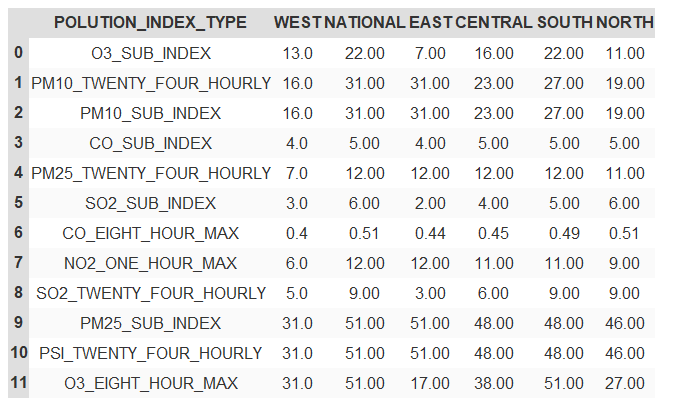
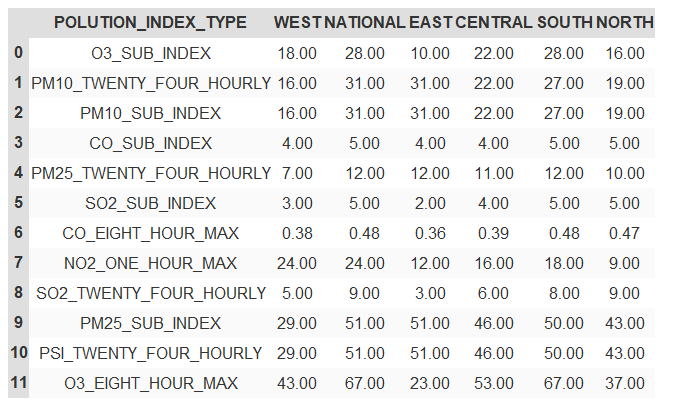
Change update time

diff --git a/haze_status.html b/haze_status.html
@@ -42,122 +42,122 @@ background-color: white;
     <tr>
       <th>0</th>
       <td>O3_SUB_INDEX</td>
-      <td>13.0</td>
+      <td>18.00</td>
+      <td>28.00</td>
+      <td>10.00</td>
       <td>22.00</td>
-      <td>7.00</td>
+      <td>28.00</td>
       <td>16.00</td>
-      <td>22.00</td>
-      <td>11.00</td>
     </tr>
     <tr>
       <th>1</th>
       <td>PM10_TWENTY_FOUR_HOURLY</td>
-      <td>16.0</td>
+      <td>16.00</td>
       <td>31.00</td>
       <td>31.00</td>
-      <td>23.00</td>
+      <td>22.00</td>
       <td>27.00</td>
       <td>19.00</td>
     </tr>
     <tr>
       <th>2</th>
       <td>PM10_SUB_INDEX</td>
-      <td>16.0</td>
+      <td>16.00</td>
       <td>31.00</td>
       <td>31.00</td>
-      <td>23.00</td>
+      <td>22.00</td>
       <td>27.00</td>
       <td>19.00</td>
     </tr>
     <tr>
       <th>3</th>
       <td>CO_SUB_INDEX</td>
-      <td>4.0</td>
-      <td>5.00</td>
       <td>4.00</td>
       <td>5.00</td>
+      <td>4.00</td>
+      <td>4.00</td>
       <td>5.00</td>
       <td>5.00</td>
     </tr>
     <tr>
       <th>4</th>
       <td>PM25_TWENTY_FOUR_HOURLY</td>
-      <td>7.0</td>
-      <td>12.00</td>
-      <td>12.00</td>
+      <td>7.00</td>
       <td>12.00</td>
       <td>12.00</td>
       <td>11.00</td>
+      <td>12.00</td>
+      <td>10.00</td>
     </tr>
     <tr>
       <th>5</th>
       <td>SO2_SUB_INDEX</td>
-      <td>3.0</td>
-      <td>6.00</td>
+      <td>3.00</td>
+      <td>5.00</td>
       <td>2.00</td>
       <td>4.00</td>
       <td>5.00</td>
-      <td>6.00</td>
+      <td>5.00</td>
     </tr>
     <tr>
       <th>6</th>
       <td>CO_EIGHT_HOUR_MAX</td>
-      <td>0.4</td>
-      <td>0.51</td>
-      <td>0.44</td>
-      <td>0.45</td>
-      <td>0.49</td>
-      <td>0.51</td>
+      <td>0.38</td>
+      <td>0.48</td>
+      <td>0.36</td>
+      <td>0.39</td>
+      <td>0.48</td>
+      <td>0.47</td>
     </tr>
     <tr>
       <th>7</th>
       <td>NO2_ONE_HOUR_MAX</td>
-      <td>6.0</td>
+      <td>24.00</td>
+      <td>24.00</td>
       <td>12.00</td>
-      <td>12.00</td>
-      <td>11.00</td>
-      <td>11.00</td>
+      <td>16.00</td>
+      <td>18.00</td>
       <td>9.00</td>
     </tr>
     <tr>
       <th>8</th>
       <td>SO2_TWENTY_FOUR_HOURLY</td>
-      <td>5.0</td>
+      <td>5.00</td>
       <td>9.00</td>
       <td>3.00</td>
       <td>6.00</td>
-      <td>9.00</td>
+      <td>8.00</td>
       <td>9.00</td>
     </tr>
     <tr>
       <th>9</th>
       <td>PM25_SUB_INDEX</td>
-      <td>31.0</td>
+      <td>29.00</td>
       <td>51.00</td>
       <td>51.00</td>
-      <td>48.00</td>
-      <td>48.00</td>
       <td>46.00</td>
+      <td>50.00</td>
+      <td>43.00</td>
     </tr>
     <tr>
       <th>10</th>
       <td>PSI_TWENTY_FOUR_HOURLY</td>
-      <td>31.0</td>
+      <td>29.00</td>
       <td>51.00</td>
       <td>51.00</td>
-      <td>48.00</td>
-      <td>48.00</td>
       <td>46.00</td>
+      <td>50.00</td>
+      <td>43.00</td>
     </tr>
     <tr>
       <th>11</th>
       <td>O3_EIGHT_HOUR_MAX</td>
-      <td>31.0</td>
-      <td>51.00</td>
-      <td>17.00</td>
-      <td>38.00</td>
-      <td>51.00</td>
-      <td>27.00</td>
+      <td>43.00</td>
+      <td>67.00</td>
+      <td>23.00</td>
+      <td>53.00</td>
+      <td>67.00</td>
+      <td>37.00</td>
     </tr>
   </tbody>
 </table>

diff --git a/data.py b/data.py
@@ -106,7 +106,13 @@ while 1:
     if not os.path.isfile('E:/Computer Science Study Year 2/aSEM 2 YEAR 2/CZ3003/Code/maven-demo/dengue_status.png'):     #Change to your path
         crawling_dengue_data()
         today = pickle.load(open('today.obj','rb'))
-    else: today = pickle.load(open('today.obj','rb'))
+    else: 
+    	today_file = pickle.load(open('today.obj','rb'))
+    	today = datetime.today()
+    	if (today.year, today.month, today.day) != (today_file.year, today_file.month, today_file.day):
+    		crawling_dengue_data()
+    	else:
+    		today = today_file
     haze_response = requests.get(url).json()
     haze_status = {}
     haze_status = {'POLUTION_INDEX_TYPE': [],'WEST': [], 'NATIONAL': [], 'EAST': [], 'CENTRAL': [], 'SOUTH': [], 'NORTH': []}

diff --git a/src/main/java/com/codebind/TwitterPost.java b/src/main/java/com/codebind/TwitterPost.java
@@ -137,8 +137,8 @@ public class TwitterPost {
 				String message2 = "This is the Dengue Cluster Report for today! (Update time:" +(String)items.get("update_timestamp")+")";
 				StatusUpdate statusDengue = new StatusUpdate(message2);
 				statusDengue.setMedia(fileDengue);
-				twitter.updateStatus(statusDengue);				
-	
+				twitter.updateStatus(statusDengue);
+				//twitter.updateStatus(items.toString());
 				System.out.println("Successfully updated the status in Twitter.");
 				Thread.sleep(86400000);
 
